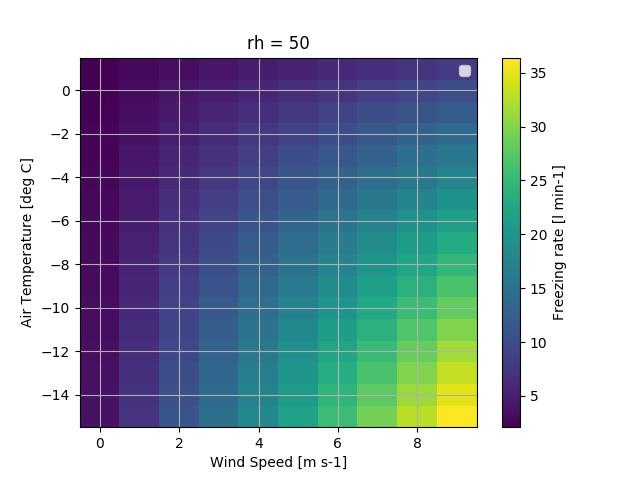
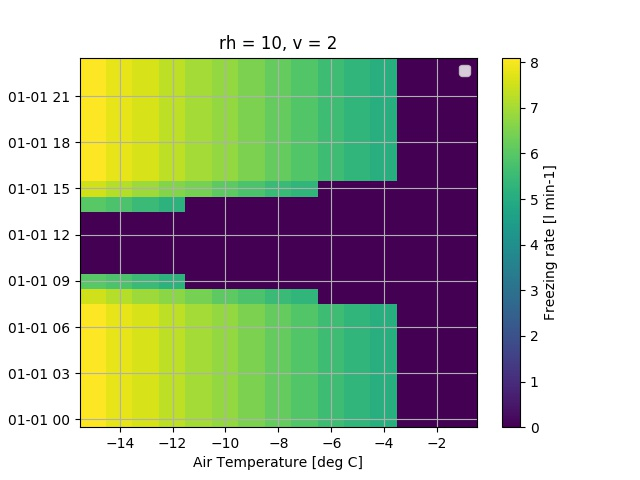
slides ppt created

diff --git a/find_discharge.py b/find_discharge.py
@@ -4,45 +4,19 @@ from scipy.optimize import curve_fit
 import math
 import numpy as np
 from datetime import datetime, timedelta
-from methods.solar import get_solar
+from pvlib import location, atmosphere
 import matplotlib
 import matplotlib.pyplot as plt
 from labview import Discharge
 
-"""Model hyperparameter"""
-DT = 60 * 60  # Model time step
-
-"""Physical Constants"""
-L_S = 2848 * 1000  # J/kg Sublimation
-L_F = 334 * 1000  # J/kg Fusion
-C_A = 1.01 * 1000  # J/kgC Specific heat air
-C_I = 2.097 * 1000  # J/kgC Specific heat ice
-C_W = 4.186 * 1000  # J/kgC Specific heat water
-RHO_W = 1000  # Density of water
-RHO_I = 917  # Density of Ice RHO_I
-RHO_A = 1.29  # kg/m3 air density at mean sea level
-VAN_KARMAN = 0.4  # Van Karman constant
-K_I = 2.123  # Thermal Conductivity Waite et al. 2006
-STEFAN_BOLTZMAN = 5.670367 * math.pow(10, -8)  # Stefan Boltzman constant
-P0 = 1013  # Standard air pressure hPa
-G = 9.81  # Gravitational acceleration
-
-"""Surface Properties"""
-IE = 0.97  # Ice Emissivity IE
-A_I = 0.25  # Albedo of Ice A_I
-A_S = 0.85  # Albedo of Fresh Snow A_S
-A_DECAY = 16  # Albedo decay rate decay_t_d
-Z = 0.003  # Ice Momentum and Scalar roughness length
-T_PPT = 1  # Temperature condition for liquid precipitation
-DX = 20e-03  # m Surface layer thickness growth rate
-H_AWS = 2
+"""Location parameters"""
+lat = 46.65
+long = 8.2834
+alt = 1047.6
+utc = 2
 
 
-def line(x, a, b):
-    return a * x + b
-
-
-def line2(x, a1, a2, a3, b):
+def line(x, a1, a2, a3, b):
     x1 = x[:, 0]
     x2 = x[:, 1]
     x3 = x[:, 2]
@@ -50,73 +24,89 @@ def line2(x, a1, a2, a3, b):
 
 
 if __name__ == "__main__":
-    temp = list(range(-20, 0))
-    rh = list(range(10, 90, 10))
-    v = list(range(0, 10))
-    da = xr.DataArray(
-        data=np.zeros(len(temp) * len(rh) * len(v)).reshape(len(temp), len(rh), len(v)),
-        dims=["temp", "rh", "v"],
-        coords=dict(
-            temp=temp,
-            rh=rh,
-            v=v,
-        ),
-        attrs=dict(
-            long_name="Freezing rate",
-            description="Max. freezing rate",
-            units="l min-1",
-        ),
-    )
+    compile = True
+    compile = False
 
-    da.temp.attrs["units"] = "deg C"
-    da.temp.attrs["description"] = "Air Temperature"
-    da.temp.attrs["long_name"] = "Air Temperature"
-    da.rh.attrs["units"] = "%"
-    da.rh.attrs["long_name"] = "Relative Humidity"
-    da.v.attrs["units"] = "m s-1"
-    da.v.attrs["long_name"] = "Wind Speed"
+    # time = datetime(2019, 1, 1, 12)
+    times = pd.date_range("2019-01-01", freq="H", periods=1 * 24)
+    temp = list(range(-15, 0))
+    rh = list(range(10, 90, 30))
+    v = list(range(0, 10, 2))
 
-    time = datetime(2019, 1, 1)
-    # aws = [datetime(2019, 1, 1), -2, 50, 5]
+    site = location.Location(lat, long, tz=utc, altitude=alt)
+    clearsky = site.get_clearsky(times=times)["ghi"]
+    if compile:
+        da = xr.DataArray(
+            data=np.zeros(len(times) * len(temp) * len(rh) * len(v)).reshape(
+                len(times), len(temp), len(rh), len(v)
+            ),
+            dims=["times", "temp", "rh", "v"],
+            coords=dict(
+                times=times,
+                temp=temp,
+                rh=rh,
+                v=v,
+            ),
+            attrs=dict(
+                long_name="Freezing rate",
+                description="Max. freezing rate",
+                units="l min-1",
+            ),
+        )
 
-    for i in temp:
-        for j in rh:
-            for k in v:
-                aws = [time, i, j, k]
-                da.sel(temp=i, rh=j, v=k).data += Discharge(aws)
+        da.temp.attrs["units"] = "deg C"
+        da.temp.attrs["description"] = "Air Temperature"
+        da.temp.attrs["long_name"] = "Air Temperature"
+        da.rh.attrs["units"] = "%"
+        da.rh.attrs["long_name"] = "Relative Humidity"
+        da.v.attrs["units"] = "m s-1"
+        da.v.attrs["long_name"] = "Wind Speed"
 
-    # da.sel(temp=slice(-15, None), rh=50, v=2).plot()
-    # y = da.sel(temp=slice(-15, None), rh=50, v=2).values
-    # x = da.sel(temp=slice(-10, None), rh=50, v=2).temp.values
-    # y2 = da.sel(rh=50).data
-    # x1 = da.sel(rh=50).temp.values
-    # x2 = da.sel(rh=50).v.values
-    # plt.figure()
-    # ax = plt.gca()
-    # da.sel(temp=slice(-15, None), rh=50, v=2).plot()
-    # plt.legend()
-    # plt.grid()
-    # plt.savefig("temp_wind.jpg")
+        for time in times:
+            for i in temp:
+                for j in rh:
+                    for k in v:
+                        aws = [time, i, j, k]
+                        aws.append(clearsky.loc[clearsky.index == time].values[0])
+                        da.sel(times=time, temp=i, rh=j, v=k).data += Discharge(aws)
 
-    x = []
-    y = []
-    for i in temp:
-        for j in rh:
-            for k in v:
-                x.append([i, j, k])
-                y.append(da.sel(temp=i, rh=j, v=k).data)
-    # print(y)
-    # print(x)
+        da.to_netcdf("sims.nc")
+    else:
+        da = xr.open_dataarray("sims.nc")
 
-    popt, pcov = curve_fit(line2, x, y)
-    a1, a2, a3, b = popt
-    print("y = %.5f * temp + %.5f * rh + %.5f * wind + %.5f" % (a1, a2, a3, b))
+        x = []
+        y = []
+        time = datetime(2019, 1, 1, 12)
+        for i in temp:
+            for j in rh:
+                for k in v:
+                    x.append([i, j, k])
+                    y.append(da.sel(times=time, temp=i, rh=j, v=k).data)
 
-    # xfine = np.linspace(-10, 0)  # define values to plot the function for
-    # plt.figure()
-    # ax = plt.gca()
-    # plt.plot(xfine, line(xfine, popt[0], popt[1]), "r-")
-    # da.sel(temp=slice(-15, None), rh=50, v=2).plot()
-    # plt.legend()
-    # plt.grid()
-    # plt.savefig("fit_temp.jpg")
+        popt, pcov = curve_fit(line, x, y)
+        a1, a2, a3, b = popt
+        print("y = %.5f * temp + %.5f * rh + %.5f * wind + %.5f" % (a1, a2, a3, b))
+
+        da.sel(temp=slice(-15, None), rh=10, v=2, times=time).plot()
+        # y = da.sel(temp=slice(-15, None), rh=10, v=2, times=time).values
+        # x = da.sel(temp=slice(-10, None), rh=10, v=2, times=time).temp.values
+        # y2 = da.sel(rh=10, times=time).data
+        # x1 = da.sel(rh=10, times=time).temp.values
+        # x2 = da.sel(rh=10, times=time).v.values
+        plt.figure()
+        ax = plt.gca()
+        # da.sel(temp=slice(-15, None), rh=10, v=2, times=time).plot()
+        da.sel(temp=slice(-15, None), rh=10, v=2).plot()
+        # da.sel(temp=-15, rh=10, v=2).plot()
+        plt.legend()
+        plt.grid()
+        plt.savefig("temp_wind.jpg")
+
+        # xfine = np.linspace(-10, 0)  # define values to plot the function for
+        # plt.figure()
+        # ax = plt.gca()
+        # plt.plot(xfine, line(xfine, popt[0], popt[1]), "r-")
+        # da.sel(temp=slice(-15, None), rh=50, v=2).plot()
+        # plt.legend()
+        # plt.grid()
+        # plt.savefig("fit_temp.jpg")

diff --git a/labview.py b/labview.py
@@ -40,10 +40,12 @@ utc = 2
 
 
 """Misc parameters"""
-cld = 0
+cld = 1
 r = 10
 shape_corr = 1.5
 temp_i = 0
+dis_min = 5
+alb = 0.3
 
 
 def Discharge(aws, mode="auto"):
@@ -53,15 +55,15 @@ def Discharge(aws, mode="auto"):
     temp = aws[1]
     rh = aws[2]
     wind = aws[3]
+    SW_global = aws[4]
 
     # Derived
     press = atmosphere.alt2pres(alt) / 100
-    site = location.Location(lat, long, tz=utc, altitude=alt)
-    solar_angle = site.get_solarposition(times=time, method="ephemeris")["elevation"][0]
+    # site = location.Location(lat, long, tz=utc, altitude=alt)
+    # solar_angle = site.get_solarposition(times=time, method="ephemeris")["elevation"][0]
+    # clearsky = site.get_clearsky(times=time)
 
     if mode not in ["demo", "auto", "stop"] or mode == "stop":
-        dis = 0
-    elif solar_angle >= 0:
         dis = 0
     elif wind >= 10:
         dis = 0
@@ -69,17 +71,7 @@ def Discharge(aws, mode="auto"):
         dis = 10
     else:
 
-        h_max = r
-
-        # Overestimate area
-        A = (
-            math.pi
-            * r
-            * math.pow(
-                (math.pow(r, 2) + math.pow(h_max, 2)),
-                1 / 2,
-            )
-        )
+        A = math.pi * r ** 2
 
         vp_a = (
             6.107
@@ -97,7 +89,8 @@ def Discharge(aws, mode="auto"):
             1 + 0.22 * math.pow(cld, 2)
         )
 
-        SW = 0
+        SW = (1 - alb) * SW_global
+        # SW = (1 - alb) * clearsky["ghi"]
 
         LW = e_a * STEFAN_BOLTZMAN * math.pow(
             temp + 273.15, 4
@@ -127,11 +120,11 @@ def Discharge(aws, mode="auto"):
             / ((np.log(H_AWS / Z)) ** 2)
         )
 
-        freezing_energy = Ql + Qs + LW
+        freezing_energy = Ql + Qs + LW + SW
         freezing_energy += temp_i * RHO_I * DX * C_I / DT
         dis = -1 * freezing_energy * A / L_F * 1000 / 60
 
-        if dis < 0:
+        if dis <= dis_min:
             dis = 0
 
     return round(dis, 1)
